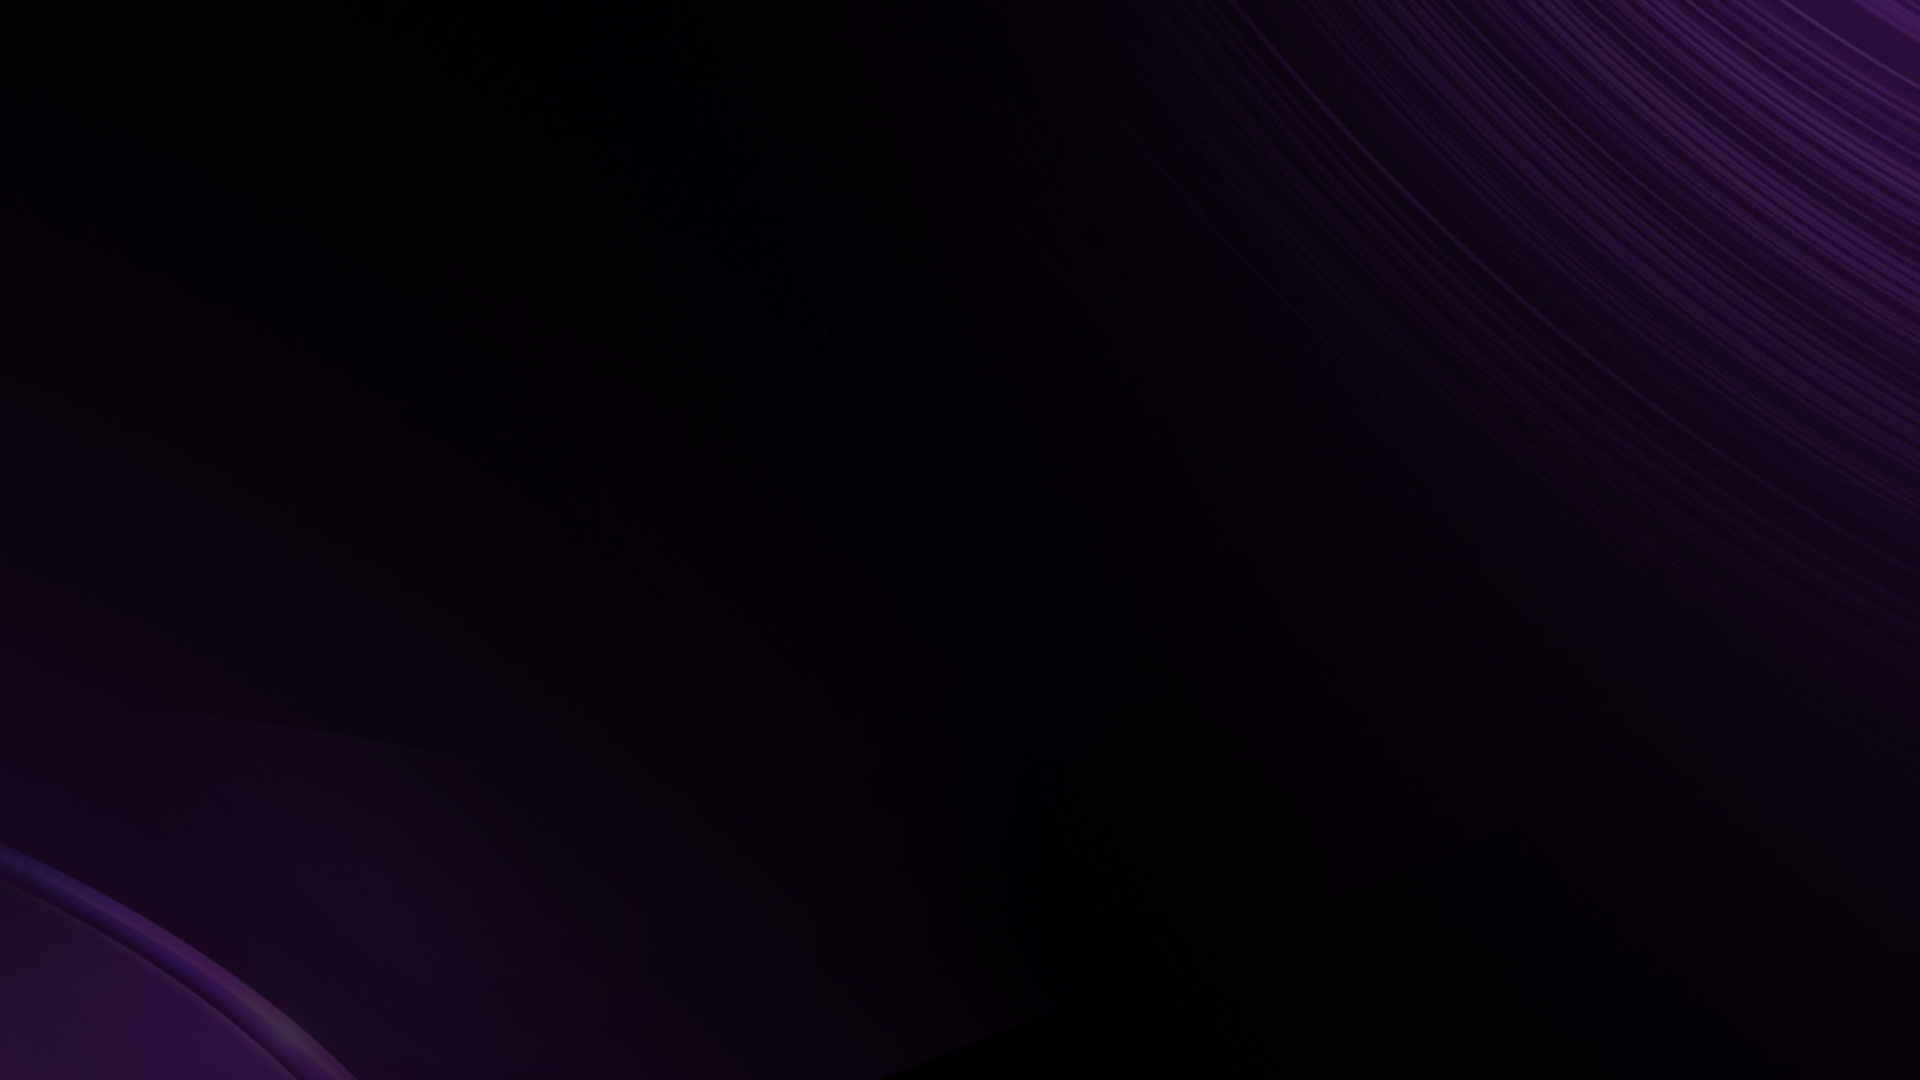
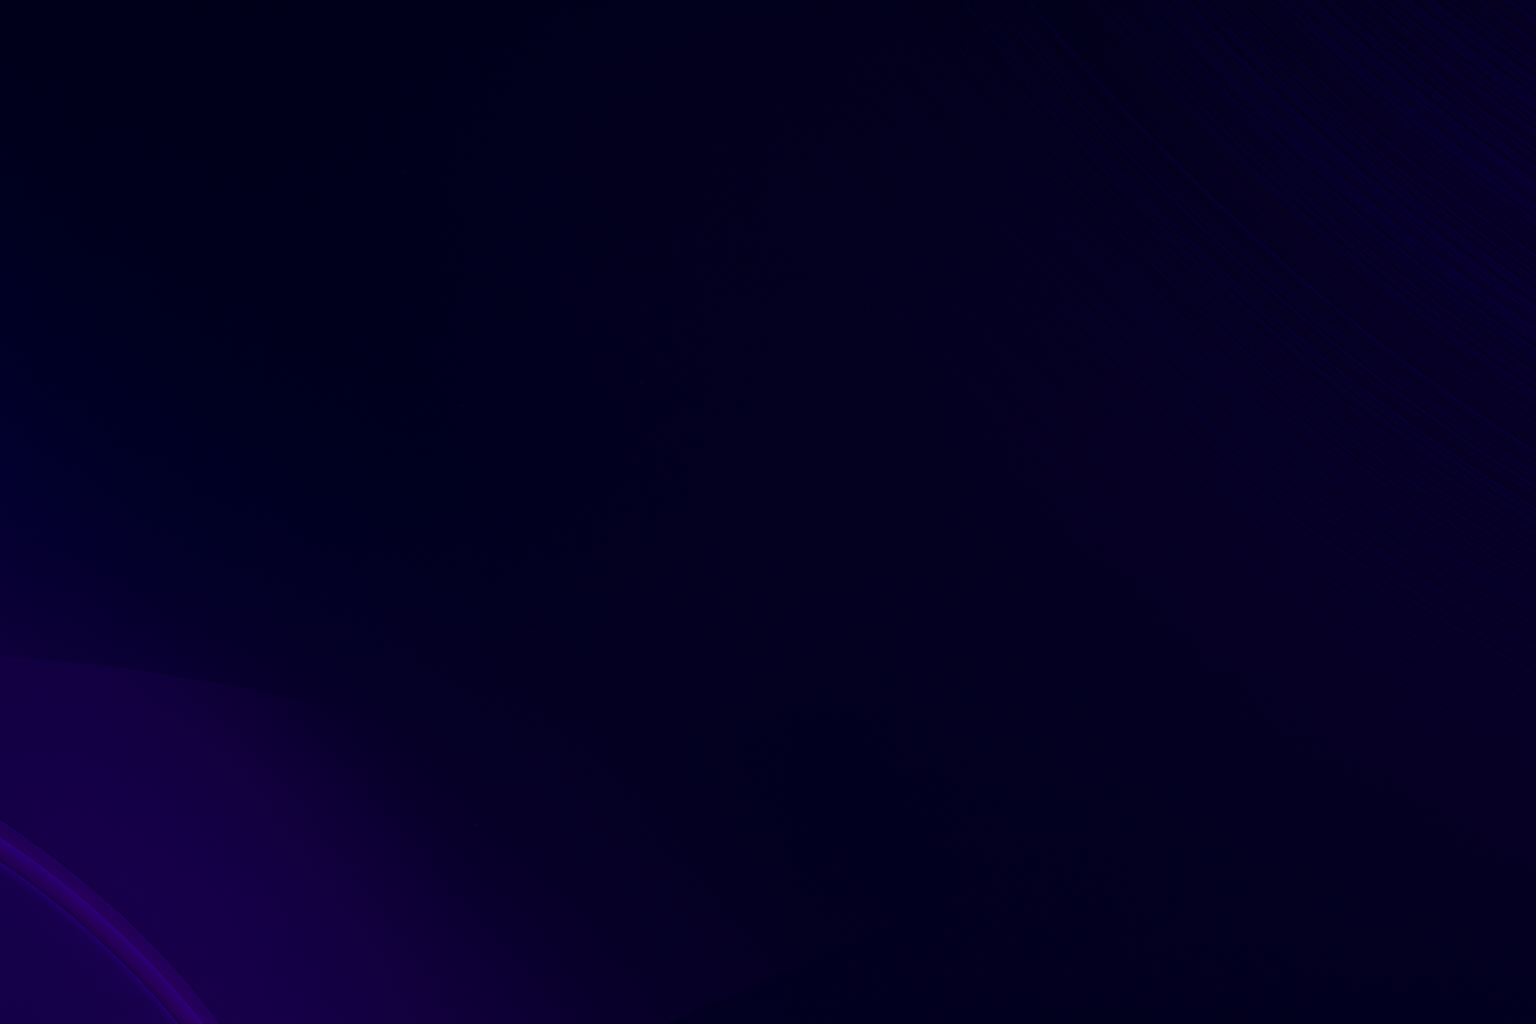
add design of blusih

diff --git a/components/HowItWorks.tsx b/components/HowItWorks.tsx
@@ -48,9 +48,9 @@ const HowItWorks = () => (
               key={idx} 
               className="flex items-center justify-center w-full"
             >
-              <div className="bg-black rounded-full shadow-xl w-[320px] h-[320px] flex flex-col items-center justify-between py-8 text-center border border-purple-400/30 relative">
+              <div className="bg-black rounded-full shadow-xl w-[320px] h-[320px] flex flex-col items-center justify-between py-8 text-center border border-blue-500/30 relative">
                 <div className="mt-2">
-                  <h3 className="text-lg font-bold bg-gradient-to-r from-purple-400 to-purple-600 bg-clip-text text-transparent px-2">
+                  <h3 className="text-lg font-bold bg-gradient-to-r from-blue-400 to-blue-600 bg-clip-text text-transparent px-2">
                     {step.number} - {step.title.toUpperCase()}
                   </h3>
                 </div>
@@ -78,7 +78,7 @@ const HowItWorks = () => (
           {/* First row - 3 pills */}
           <div className="flex flex-wrap justify-center gap-5 w-full">
             {steps.slice(0, 2).map((step, idx) => (
-              <div key={idx} className="bg-black rounded-full shadow-xl w-full sm:w-[450px] md:w-[550px] px-12 py-6 flex items-center space-x-4 border border-purple-400/30 hover:border-purple-400/60 transition-all duration-300">
+              <div key={idx} className="bg-black rounded-full shadow-xl w-full sm:w-[450px] md:w-[550px] px-12 py-6 flex items-center space-x-4 border border-blue-500/30 hover:border-blue-500/60 transition-all duration-300">
                 <div className="flex-shrink-0 w-24 h-24 relative mt-[-10px]">
                   <Image 
                     src={step.image} 
@@ -89,14 +89,14 @@ const HowItWorks = () => (
                   />
                 </div>
                 <div className="flex-1 text-left">
-                  <h3 className="text-lg font-bold text-purple-400 mb-1">{step.number} - {step.title.toUpperCase()}</h3>
+                  <h3 className="text-lg font-bold text-blue-400 mb-1">{step.number} - {step.title.toUpperCase()}</h3>
                   <p className="text-gray-300 text-sm">{step.description}</p>
                 </div>
               </div>
             ))}
             
             {/* Step 3 - Buy Tickets - Higher and Bigger */}
-            <div className="bg-black rounded-full shadow-xl w-full sm:w-[480px] md:w-[580px] px-12 py-7 flex items-center space-x-4 border border-purple-400/30 hover:border-purple-400/60 transition-all duration-300 mt-[-15px]">
+            <div className="bg-black rounded-full shadow-xl w-full sm:w-[480px] md:w-[580px] px-12 py-7 flex items-center space-x-4 border border-blue-500/30 hover:border-blue-500/60 transition-all duration-300 mt-[-15px]">
               <div className="flex-shrink-0 w-28 h-28 relative mt-[-15px]">
                 <Image 
                   src={steps[2].image} 
@@ -107,7 +107,7 @@ const HowItWorks = () => (
                 />
               </div>
               <div className="flex-1 text-left">
-                <h3 className="text-xl font-bold text-purple-400 mb-1">{steps[2].number} - {steps[2].title.toUpperCase()}</h3>
+                <h3 className="text-xl font-bold text-blue-400 mb-1">{steps[2].number} - {steps[2].title.toUpperCase()}</h3>
                 <p className="text-gray-300 text-sm">{steps[2].description}</p>
               </div>
             </div>
@@ -116,7 +116,7 @@ const HowItWorks = () => (
           {/* Second row - 2 pills */}
           <div className="flex flex-wrap justify-center gap-5 w-full">
             {/* Step 4 - Wait for Draw - Bigger and Higher */}
-            <div className="bg-black rounded-full shadow-xl w-full sm:w-[480px] md:w-[580px] px-12 py-7 flex items-center space-x-4 border border-purple-400/30 hover:border-purple-400/60 transition-all duration-300 mt-[-10px]">
+            <div className="bg-black rounded-full shadow-xl w-full sm:w-[480px] md:w-[580px] px-12 py-7 flex items-center space-x-4 border border-blue-500/30 hover:border-blue-500/60 transition-all duration-300 mt-[-10px]">
               <div className="flex-shrink-0 w-28 h-28 relative mt-[-15px]">
                 <Image 
                   src={steps[3].image} 
@@ -127,13 +127,13 @@ const HowItWorks = () => (
                 />
               </div>
               <div className="flex-1 text-left">
-                <h3 className="text-xl font-bold text-purple-400 mb-1">{steps[3].number} - {steps[3].title.toUpperCase()}</h3>
+                <h3 className="text-xl font-bold text-blue-400 mb-1">{steps[3].number} - {steps[3].title.toUpperCase()}</h3>
                 <p className="text-gray-300 text-sm">{steps[3].description}</p>
               </div>
             </div>
             
             {/* Step 5 - Claim Prizes - Lower */}
-            <div className="bg-black rounded-full shadow-xl w-full sm:w-[450px] md:w-[550px] px-12 py-6 flex items-center space-x-4 border border-purple-400/30 hover:border-purple-400/60 transition-all duration-300 mt-[10px]">
+            <div className="bg-black rounded-full shadow-xl w-full sm:w-[450px] md:w-[550px] px-12 py-6 flex items-center space-x-4 border border-blue-500/30 hover:border-blue-500/60 transition-all duration-300 mt-[10px]">
               <div className="flex-shrink-0 w-24 h-24 relative mt-[-5px]">
                 <Image 
                   src={steps[4].image} 
@@ -144,7 +144,7 @@ const HowItWorks = () => (
                 />
               </div>
               <div className="flex-1 text-left">
-                <h3 className="text-lg font-bold text-purple-400 mb-1">{steps[4].number} - {steps[4].title.toUpperCase()}</h3>
+                <h3 className="text-lg font-bold text-blue-400 mb-1">{steps[4].number} - {steps[4].title.toUpperCase()}</h3>
                 <p className="text-gray-300 text-sm">{steps[4].description}</p>
               </div>
             </div>

diff --git a/app/dashboard/page.tsx b/app/dashboard/page.tsx
@@ -1,8 +1,8 @@
 'use client';
 
-import Link from 'next/link';
 import Image from 'next/image';
-import { useState, useEffect } from 'react';
+import Link from 'next/link';
+import React, { useState, useEffect } from 'react';
 
 // Sidebar component
 const Sidebar = ({ isOpen, toggleSidebar }: { isOpen: boolean; toggleSidebar: () => void }) => {
@@ -60,21 +60,27 @@ interface StatCardProps {
   value: string | number;
   subtitle: string;
   bgClass?: string;
+  iconSize?: number;
 }
 
-const StatCard = ({ icon, iconImage, title, value, subtitle, bgClass = "bg-gradient-to-b from-blue-900 to-blue-700" }: StatCardProps) => {
+const StatCard = ({ icon, iconImage, title, value, subtitle, bgClass = "bg-opacity-0", iconSize = 80 }: StatCardProps) => {
   return (
-    <div className={`${bgClass} rounded-lg p-6 text-center shadow-lg border border-blue-700`}>
-      <div className="text-center text-gray-200 mb-2 flex items-center justify-center space-x-2">
+    <div className={`relative rounded-xl p-6 border-2 border-blue-500 bg-blue-900/10 ${bgClass} group overflow-hidden transition-all duration-300 hover:border-blue-400 stat-card-fluid`}>
+      <div className="stat-card-background"></div>
+      <div className="absolute inset-0 bg-gradient-to-r from-blue-700/20 via-blue-500/10 to-blue-600/20 opacity-0 group-hover:opacity-100 blur-xl transition-opacity duration-700 animate-pulse"></div>
+      <div className="absolute inset-0 bg-gradient-to-br from-blue-900/30 to-blue-600/20 opacity-0 group-hover:opacity-100 group-hover:animate-fluid transition-opacity duration-500 ease-in-out"></div>
+      <div className="flex items-center mb-4 gap-4">
         {iconImage ? (
-          <Image src={`/${iconImage}`} alt={title} width={40} height={40} className="inline-block mb-1" />
+          <Image src={`/${iconImage}`} alt={title} width={iconSize} height={iconSize} className="flex-shrink-0" />
         ) : (
-          <span className="text-2xl">{icon}</span>
+          <span className="text-3xl flex-shrink-0">{icon}</span>
         )}
-        <span>{title}</span>
+        <div>
+          <div className="text-lg text-gray-200 font-medium">{title}</div>
+          <div className="text-5xl font-bold text-white mb-1">{value}</div>
+          <div className="text-sm text-gray-300">{subtitle}</div>
+        </div>
       </div>
-      <div className="text-4xl font-bold text-white mb-1">{value}</div>
-      <div className="text-sm text-gray-300">{subtitle}</div>
     </div>
   );
 };
@@ -126,7 +132,7 @@ export default function Dashboard() {
               <span className="mr-2">🏆</span> Dashboard
             </h1>
           </div>
-          <button className="bg-gradient-to-r from-orange-500 to-red-500 hover:from-orange-600 hover:to-red-600 text-white py-2 px-3 md:px-4 rounded-md text-xs md:text-sm transition-all duration-200">
+          <button className="bg-gradient-to-r from-blue-500 to-blue-700 hover:from-blue-600 hover:to-red-600 text-white py-2 px-3 md:px-4 rounded-md text-xs md:text-sm transition-all duration-200">
             Connect Wallet
           </button>
         </header>
@@ -147,7 +153,8 @@ export default function Dashboard() {
               iconImage="15.png"
               title="Total Tickets" 
               value="100" 
-              subtitle="Available in current round" 
+              subtitle="Available in current round"
+              iconSize={100} 
             />
             <StatCard 
               icon=""
@@ -178,8 +185,7 @@ export default function Dashboard() {
               iconImage="16.png"
               title="My Tickets" 
               value={myTickets.length} 
-              subtitle="In current round" 
-              bgClass="bg-gradient-to-b from-blue-900 to-blue-700"
+              subtitle="In current round"
             />
           </div>
           

diff --git a/styles/fluid-animation.css b/styles/fluid-animation.css
@@ -1,4 +1,4 @@
-/* Fluid Animation Styles for Testimonials and CallToAction */
+/* Fluid Animation Styles for Testimonials, CallToAction and StatCards */
 
 .fluid-background {
   position: relative;
@@ -25,7 +25,7 @@
   width: 100%;
   height: 100%;
   z-index: -1;
-  background: linear-gradient(45deg, rgba(15, 3, 35, 0.95), rgba(6, 0, 20, 0.95));
+  background: linear-gradient(45deg, rgba(0, 20, 50, 0.95), rgba(0, 10, 30, 0.95));
   opacity: 0.9;
   transition: opacity 0.5s ease;
 }
@@ -42,9 +42,9 @@
   height: 100%;
   z-index: -2;
   opacity: 0.4;
-  background: radial-gradient(circle at 50% 50%, rgba(103, 58, 183, 0.3), rgba(103, 58, 183, 0) 70%),
-              radial-gradient(circle at 80% 20%, rgba(156, 25, 233, 0.4), rgba(156, 25, 233, 0) 70%),
-              radial-gradient(circle at 20% 80%, rgba(73, 11, 140, 0.5), rgba(73, 11, 140, 0) 70%);
+  background: radial-gradient(circle at 50% 50%, rgba(0, 119, 190, 0.3), rgba(0, 119, 190, 0) 70%),
+              radial-gradient(circle at 80% 20%, rgba(0, 150, 220, 0.4), rgba(0, 150, 220, 0) 70%),
+              radial-gradient(circle at 20% 80%, rgba(0, 60, 120, 0.5), rgba(0, 60, 120, 0) 70%);
   background-size: 200% 200%;
   animation: fluid-move 18s ease infinite alternate;
   transition: opacity 0.5s ease, animation-duration 0.5s ease;
@@ -64,7 +64,7 @@
 
 .bubble {
   position: absolute;
-  background: radial-gradient(circle at center, rgba(156, 25, 233, 0.4) 0%, rgba(103, 58, 183, 0.15) 70%);
+  background: radial-gradient(circle at center, rgba(0, 150, 220, 0.4) 0%, rgba(0, 80, 150, 0.15) 70%);
   border-radius: 50%;
   opacity: 0;
   animation: bubble-rise 8s ease-in infinite;
@@ -129,23 +129,78 @@
 
 @keyframes bubble-rise {
   0% {
-    bottom: -100px;
-    opacity: 0;
-  }
-  20% {
     opacity: 0.2;
+    bottom: -50px;
+    transform: translateX(0);
   }
-  40% {
-    opacity: 0.4;
+  50% {
+    opacity: 0.5;
+    transform: translateX(10px);
   }
-  60% {
-    opacity: 0.6;
-  }
-  80% {
-    opacity: 0.2;
+  75% {
+    opacity: 0.3;
+    transform: translateX(-10px);
   }
   100% {
-    bottom: 100%;
     opacity: 0;
+    bottom: 100%;
+    transform: translateX(0);
+  }
+}
+
+/* StatCard Fluid Animation Styles */
+.stat-card-fluid {
+  position: relative;
+  overflow: hidden;
+  z-index: 0;
+  transition: all 0.3s ease;
+}
+
+.stat-card-fluid::before {
+  content: '';
+  position: absolute;
+  top: 0;
+  left: 0;
+  width: 100%;
+  height: 100%;
+  background: linear-gradient(45deg, rgba(0, 20, 80, 0.1), rgba(0, 60, 120, 0.05));
+  z-index: -1;
+  transition: opacity 0.5s ease;
+}
+
+.stat-card-fluid:hover::before {
+  opacity: 0.8;
+}
+
+.stat-card-background {
+  position: absolute;
+  top: 0;
+  left: 0;
+  width: 100%;
+  height: 100%;
+  z-index: -2;
+  opacity: 0;
+  background: radial-gradient(circle at 30% 30%, rgba(0, 119, 190, 0.4), rgba(0, 119, 190, 0) 70%),
+              radial-gradient(circle at 70% 70%, rgba(0, 150, 220, 0.4), rgba(0, 150, 220, 0) 70%);
+  transition: opacity 0.5s ease;
+}
+
+.stat-card-fluid:hover .stat-card-background {
+  opacity: 0.6;
+  animation: stat-card-flow 8s ease-in-out infinite alternate;
+}
+
+@keyframes stat-card-flow {
+  0% {
+    background-position: 0% 0%;
+    transform: scale(1);
+  }
+  50% {
+    background-position: 100% 100%;
+    transform: scale(1.03);
+  }
+  100% {
+    background-position: 0% 0%;
+    transform: scale(1);
   }
 }

diff --git a/components/Header.tsx b/components/Header.tsx
@@ -161,7 +161,7 @@ export default function Header() {
               {!auth ? (
                 <button 
                   className="w-full bg-blue-500 hover:bg-blue-600 text-white font-medium py-2 px-4 rounded-md shadow transition-all duration-200 flex items-center justify-center"
-                  onClick={() => router.push('/register')}
+                  onClick={() => router.push('/dashboard')}
                 >
                   <svg xmlns="http://www.w3.org/2000/svg" className="h-4 w-4 mr-1" fill="none" viewBox="0 0 24 24" stroke="currentColor">
                     <path strokeLinecap="round" strokeLinejoin="round" strokeWidth={2} d="M17 9V7a2 2 0 00-2-2H5a2 2 0 00-2 2v6a2 2 0 002 2h2m2 4h10a2 2 0 002-2v-6a2 2 0 00-2-2H9a2 2 0 00-2 2v6a2 2 0 002 2zm7-5a2 2 0 11-4 0 2 2 0 014 0z" />
@@ -228,7 +228,7 @@ export default function Header() {
               {!auth ? (
                 <button 
                   className="bg-blue-500 hover:bg-blue-600 text-white font-medium py-2 px-4 rounded-md shadow transition-all duration-200 flex items-center justify-center"
-                  onClick={() => router.push('/register')}
+                  onClick={() => router.push('/dashboard')}
                 >
                   <svg xmlns="http://www.w3.org/2000/svg" className="h-4 w-4 mr-1" fill="none" viewBox="0 0 24 24" stroke="currentColor">
                     <path strokeLinecap="round" strokeLinejoin="round" strokeWidth={2} d="M17 9V7a2 2 0 00-2-2H5a2 2 0 00-2 2v6a2 2 0 002 2h2m2 4h10a2 2 0 002-2v-6a2 2 0 00-2-2H9a2 2 0 00-2 2v6a2 2 0 002 2zm7-5a2 2 0 11-4 0 2 2 0 014 0z" />

diff --git a/components/PlatformFeatures.tsx b/components/PlatformFeatures.tsx
@@ -49,11 +49,11 @@ const PlatformFeatures = () => (
     
     <div className="container mx-auto px-4 relative z-10">
       <h2 className="text-3xl md:text-4xl font-bold text-center mb-10">
-        Why Choose <span className="text-purple-400">CryptoLottery?</span>
+        Why Choose <span className="text-blue-400">CryptoLottery?</span>
       </h2>
       <div className="grid grid-cols-2 sm:grid-cols-2 md:grid-cols-3 gap-4 md:gap-8 max-w-6xl mx-auto">
         {features.map((feature) => (
-          <div key={feature.title} className="bg-black rounded-2xl p-4 md:p-8 flex flex-col items-center text-center border border-purple-400/30 hover:shadow-2xl hover:-translate-y-2 transition-all duration-300">
+          <div key={feature.title} className="bg-black rounded-2xl p-4 md:p-8 flex flex-col items-center text-center border border-blue-500/30 hover:shadow-2xl hover:-translate-y-2 transition-all duration-300 hover:shadow-blue-500/20">
             <div className="relative w-24 h-32 md:w-40 md:h-64 mb-0">
               <Image
                 src={feature.icon}

diff --git a/tailwind.config.js b/tailwind.config.js
@@ -19,11 +19,19 @@ module.exports = {
         'bounce-slow': 'bounce 3s infinite ease-in-out',
         'float': 'float 6s infinite ease-in-out',
         'pulse-slow': 'pulse 4s infinite',
+        'fluid': 'fluid 8s infinite alternate ease-in-out',
       },
       keyframes: {
         float: {
           '0%, 100%': { transform: 'translateY(0)' },
           '50%': { transform: 'translateY(-20px)' },
+        },
+        fluid: {
+          '0%': { transform: 'scale(1) rotate(0deg)', opacity: '0.3' },
+          '25%': { transform: 'scale(1.1) rotate(2deg)', opacity: '0.5' },
+          '50%': { transform: 'scale(1.05) rotate(-1deg)', opacity: '0.7' },
+          '75%': { transform: 'scale(1.1) rotate(1deg)', opacity: '0.5' },
+          '100%': { transform: 'scale(1) rotate(0deg)', opacity: '0.3' },
         },
       },
     },
